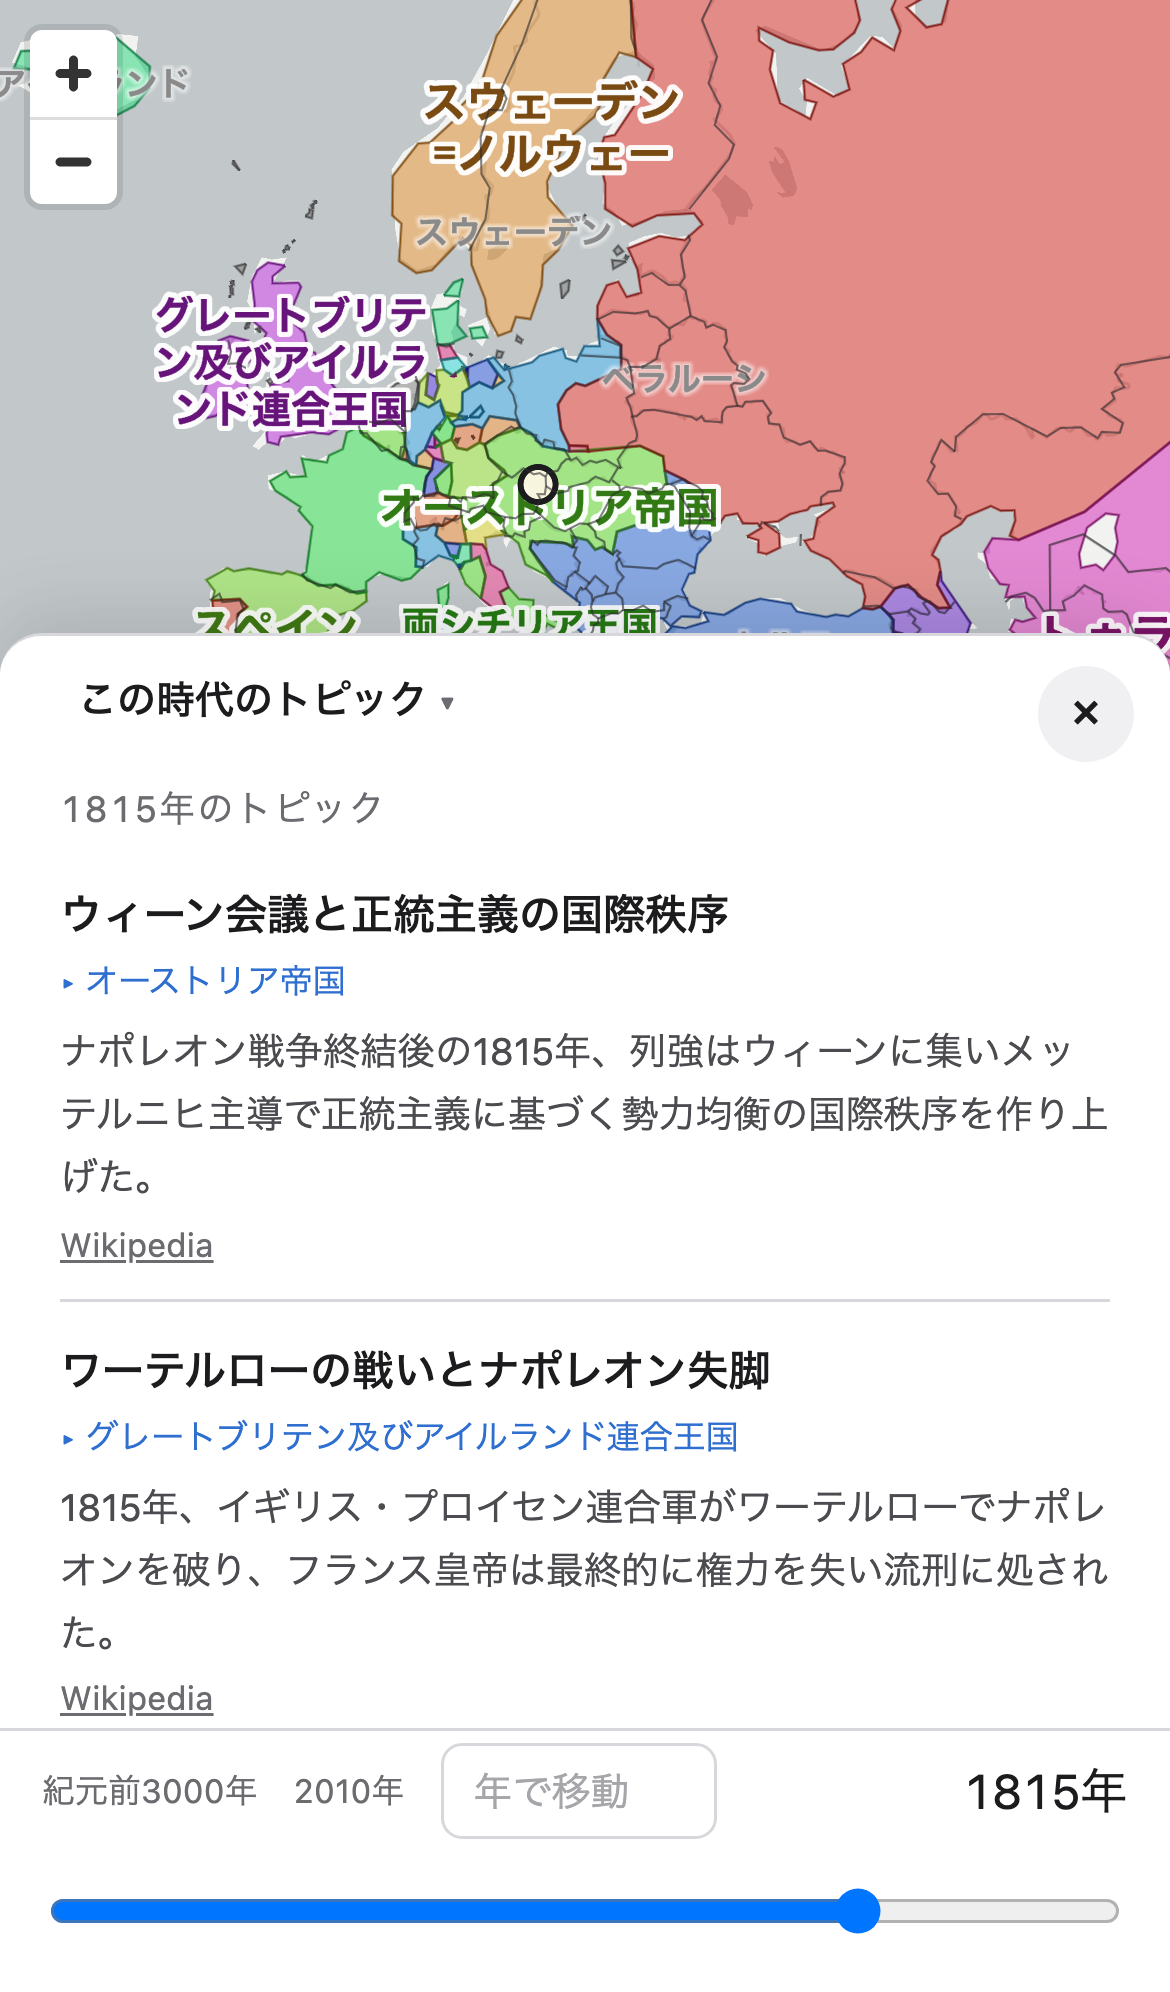
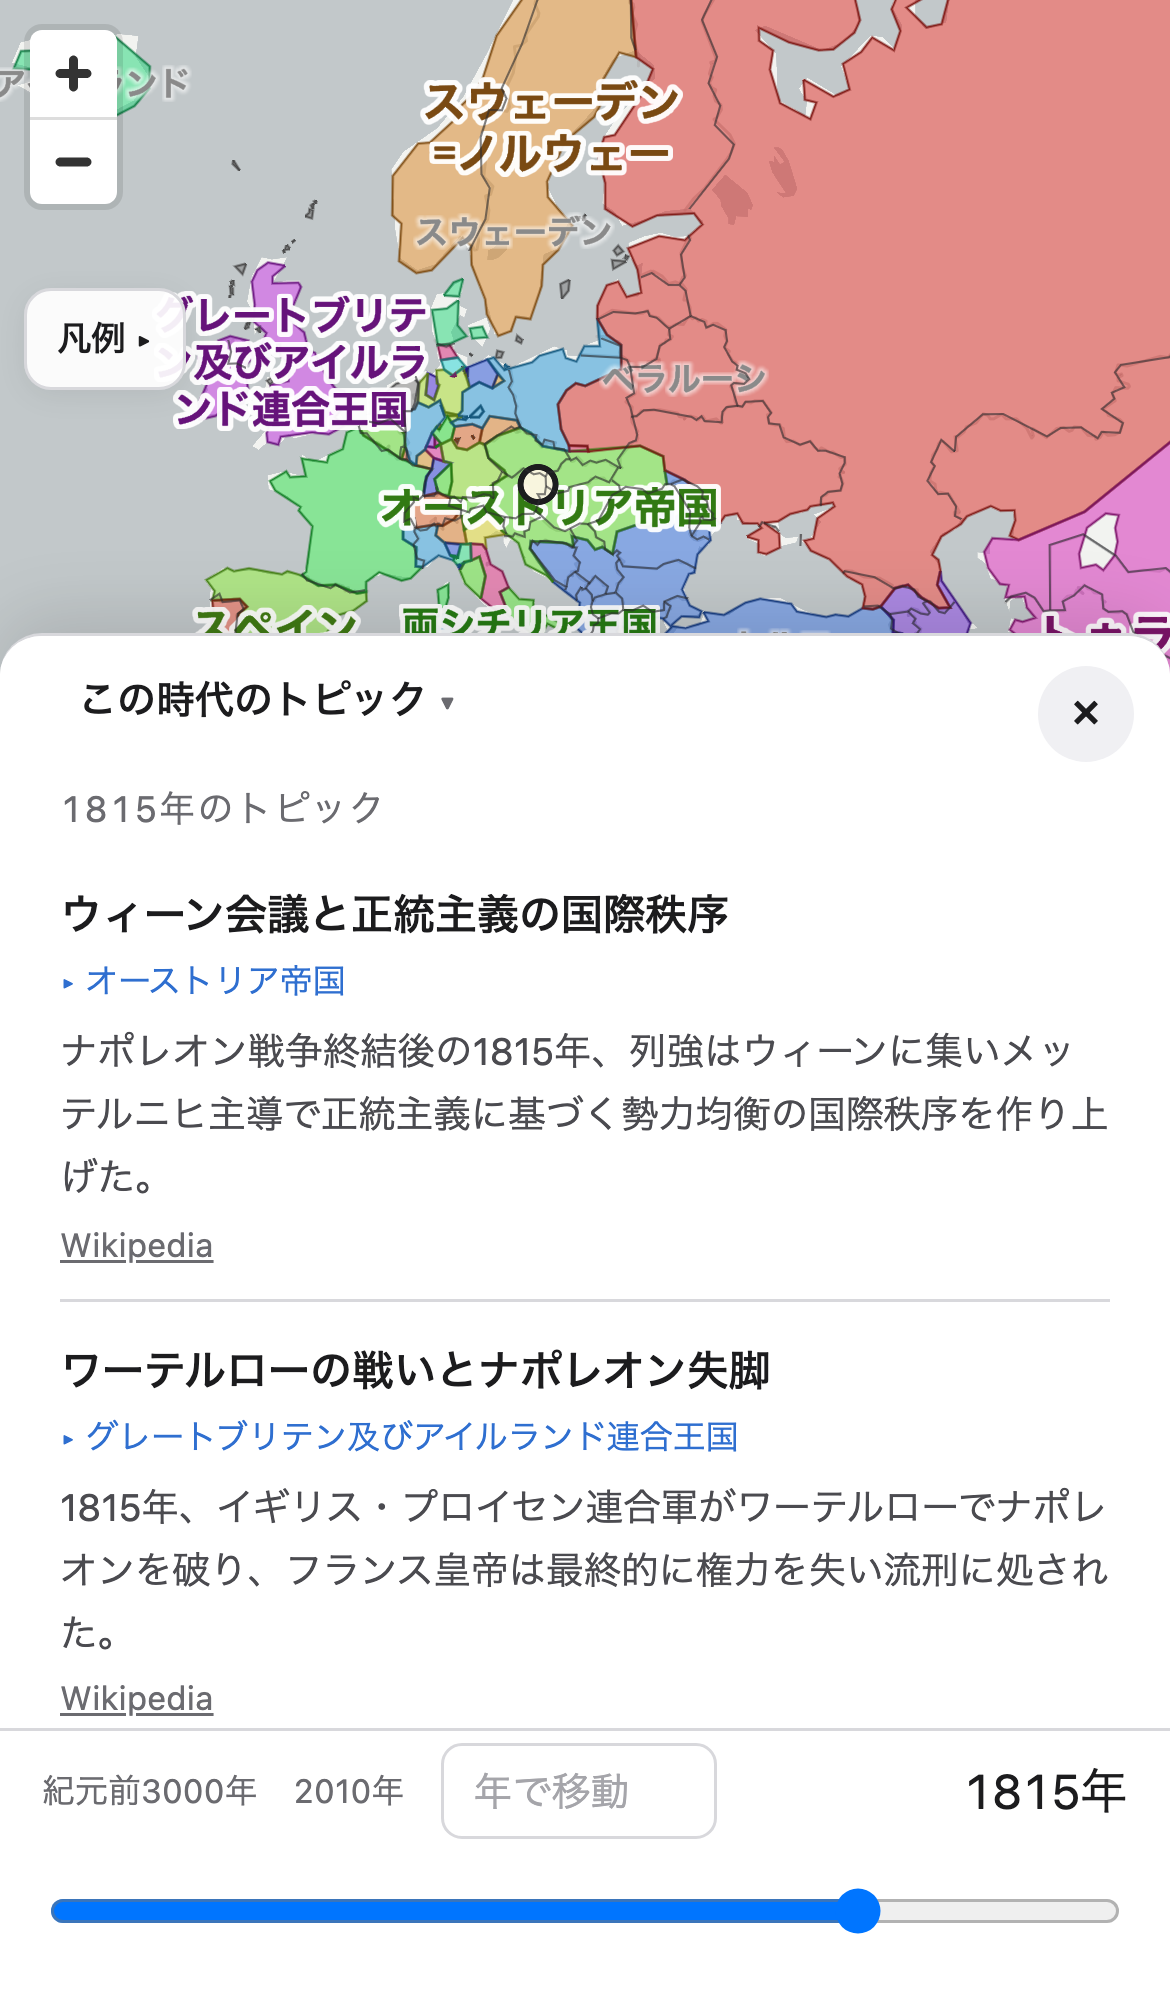
fix(mobile): move the legend clear of the sheet handle
Under 768px the legend was expanded by default and anchored above the
bottom bar, so its lower rows were cut off behind the 「この時代のトピック」
sheet handle.

It now starts collapsed as a 「凡例 ▸」 chip and moves to the top-left,
under the zoom control. Anchoring it at the bottom only traded one
collision for another: opening the sheet covers the bottom half of the
screen entirely, which left the legend unreachable rather than merely
clipped. Top-left is clear of both states.

Adds a mobile assertion that the legend and handle bounding boxes do not
intersect, collapsed and expanded, and that the expanded legend stays on
screen. It is checked with the sheet collapsed, which is the reported
state; a bottom sheet covering the legend while you read topics is
normal behaviour, not a bug.

Verified at 390/600/767/768/930px: below 768 the legend is a collapsed
chip at y 96-130 with the handle present and no intersection; at 768 and
above it is the full bottom-left panel with no handle at all.

Claude-Session: https://claude.ai/code/session_011jmUHQvJfLb2fnRPfpvuRt

Changed region(s): [[0.0, 0.1245, 0.1846, 0.2179]]

diff --git a/index.html b/index.html
@@ -209,7 +209,7 @@
 
   /* --- モバイル: パネルを下からのシートにする --- */
   @media (max-width: 767px) {
-    :root { --bar-h: 88px; }
+    :root { --bar-h: 88px; --sheet-handle-h: 44px; }
 
     #map { inset: 0 0 var(--bar-h) 0; }
 
@@ -225,7 +225,7 @@
       padding: 20px 20px 24px;
       /* 既定ではハンドルの高さぶんだけ見せておく。
          「この時代のトピック」を押すと開く */
-      transform: translateY(calc(100% - 44px));
+      transform: translateY(calc(100% - var(--sheet-handle-h)));
       transition: transform .22s ease;
     }
     #panel.is-open { transform: translateY(0); }
@@ -233,7 +233,7 @@
 
     #sheet-handle {
       width: 100%;
-      height: 44px;
+      height: var(--sheet-handle-h);
       margin: -20px 0 4px;
       background: none; border: 0;
       font: inherit; font-size: 13px; font-weight: 600;
@@ -266,17 +266,21 @@
       /* 指で掴めるだけの高さを確保する */
       height: 32px;
     }
-    /* 凡例はモバイルでは畳んでおく（地図を広く使う） */
+    /* モバイルでは凡例を左上（ズームコントロールの下）に移す。
+       下に置くとシートを開いた時に覆われて読めなくなり、畳んでいても
+       「この時代のトピック」ハンドルと取り合いになるため。 */
     #legend {
-      left: 8px; right: 8px; max-width: none;
-      bottom: calc(var(--bar-h) + 8px);
-      padding: 8px 10px;
+      top: 96px; bottom: auto;
+      left: 8px; right: auto;
+      max-width: calc(100% - 16px);
+      padding: 7px 10px;
     }
     #legend-toggle { display: block; }
-    #legend-toggle::after { content: ' ▾'; }
-    #legend.is-collapsed #legend-body { display: none; }
-    #legend.is-collapsed #legend-toggle::after { content: ' ▸'; }
-    #legend-body { margin-top: 7px; }
+    #legend-toggle::after { content: ' ▸'; }
+    /* 既定は畳んだ状態。開いた時だけ本体を出す */
+    #legend-body { display: none; margin-top: 7px; }
+    #legend.is-expanded #legend-body { display: block; }
+    #legend.is-expanded #legend-toggle::after { content: ' ▾'; }
 
     #year-format-hint { display: none; }
 
@@ -317,7 +321,7 @@
   </div>
 
   <div id="legend">
-    <button id="legend-toggle" aria-expanded="true" aria-controls="legend-body">凡例</button>
+    <button id="legend-toggle" aria-expanded="false" aria-controls="legend-body">凡例</button>
     <ul id="legend-body">
       <li><span class="lg-swatch"></span>色 = 政体ごとの識別色（意味はなく、同じ政体は年代をまたいで同じ色）</li>
       <li><span class="lg-swatch lg-faint"></span>薄い文字/塗り = 国家でない文化圏（狩猟採集民・部族など）</li>

diff --git a/app.js b/app.js
@@ -345,10 +345,11 @@ el.sheetHandle.addEventListener('click', () => {
   el.sheetHandle.setAttribute('aria-expanded', String(open));
 });
 
-// --- 凡例（モバイルでは畳める） ---
+// --- 凡例（モバイルでは既定で畳まれ、トグルで開く） ---
+// 開閉は is-expanded で表す。デスクトップでは CSS 側で常に開いた見た目になる。
 el.legendToggle.addEventListener('click', () => {
-  const collapsed = el.legend.classList.toggle('is-collapsed');
-  el.legendToggle.setAttribute('aria-expanded', String(!collapsed));
+  const expanded = el.legend.classList.toggle('is-expanded');
+  el.legendToggle.setAttribute('aria-expanded', String(expanded));
 });
 
 // --- 起動 ---
